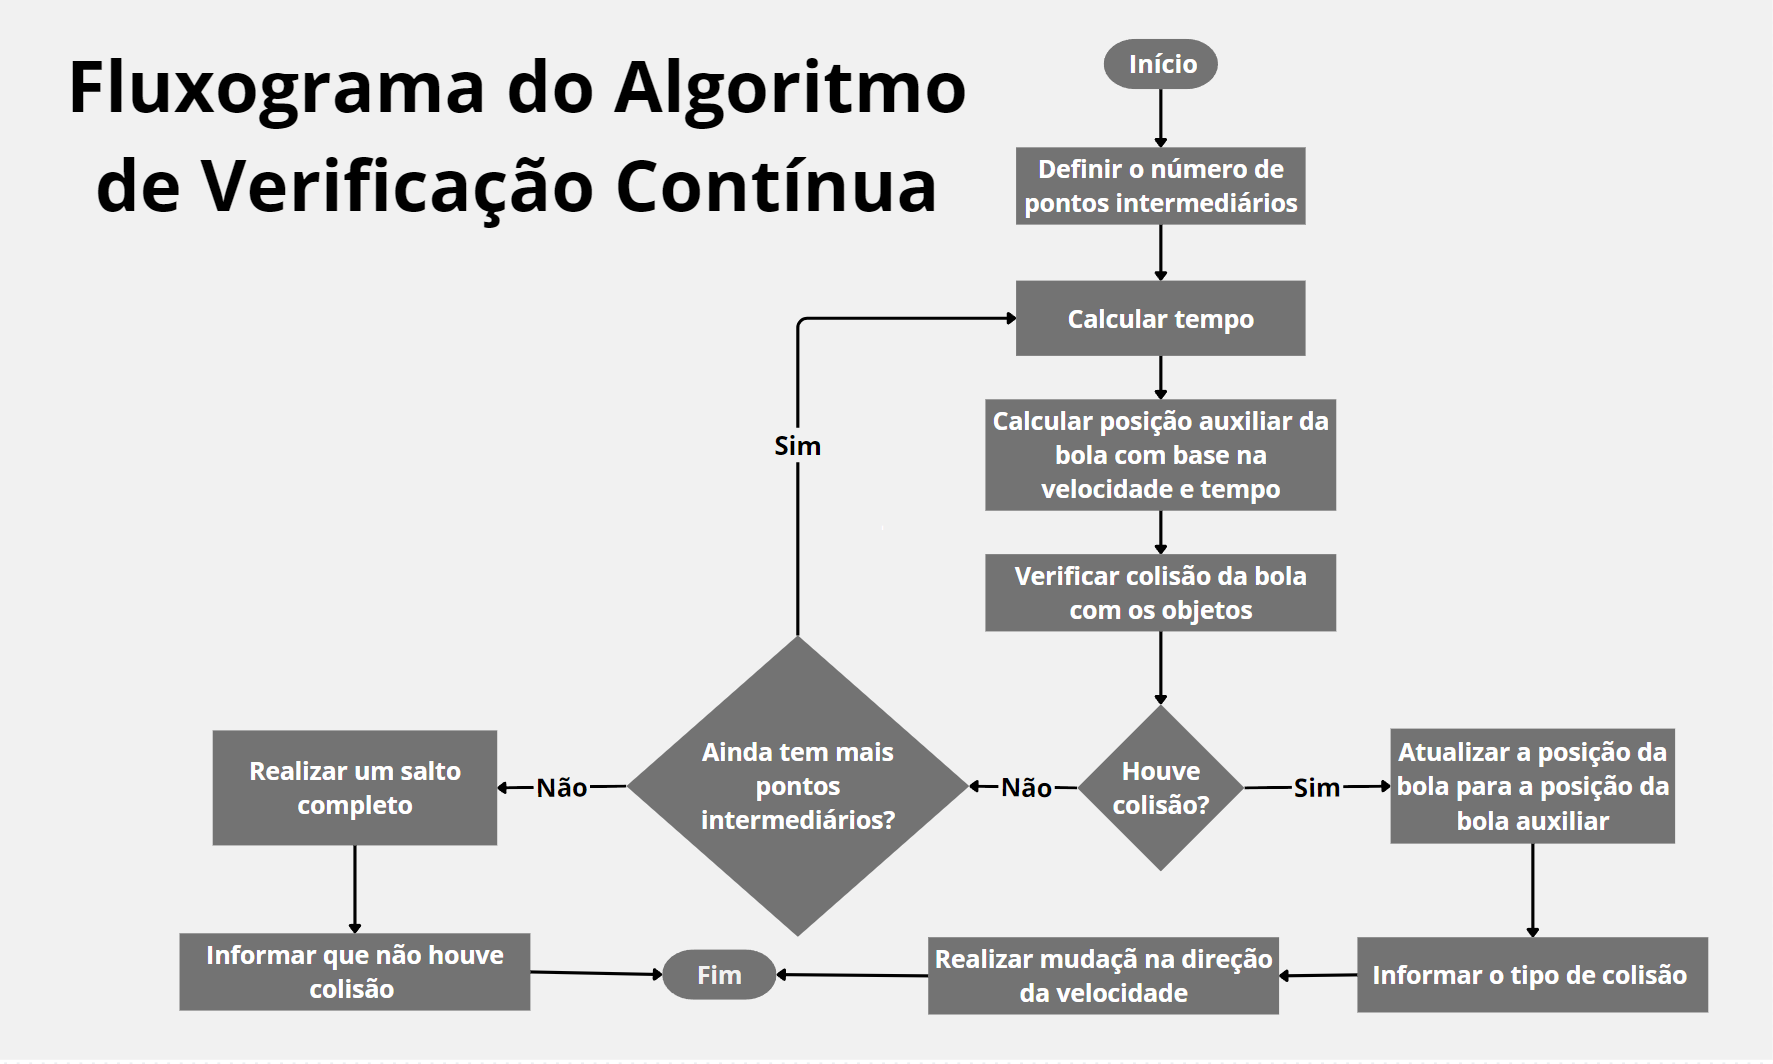
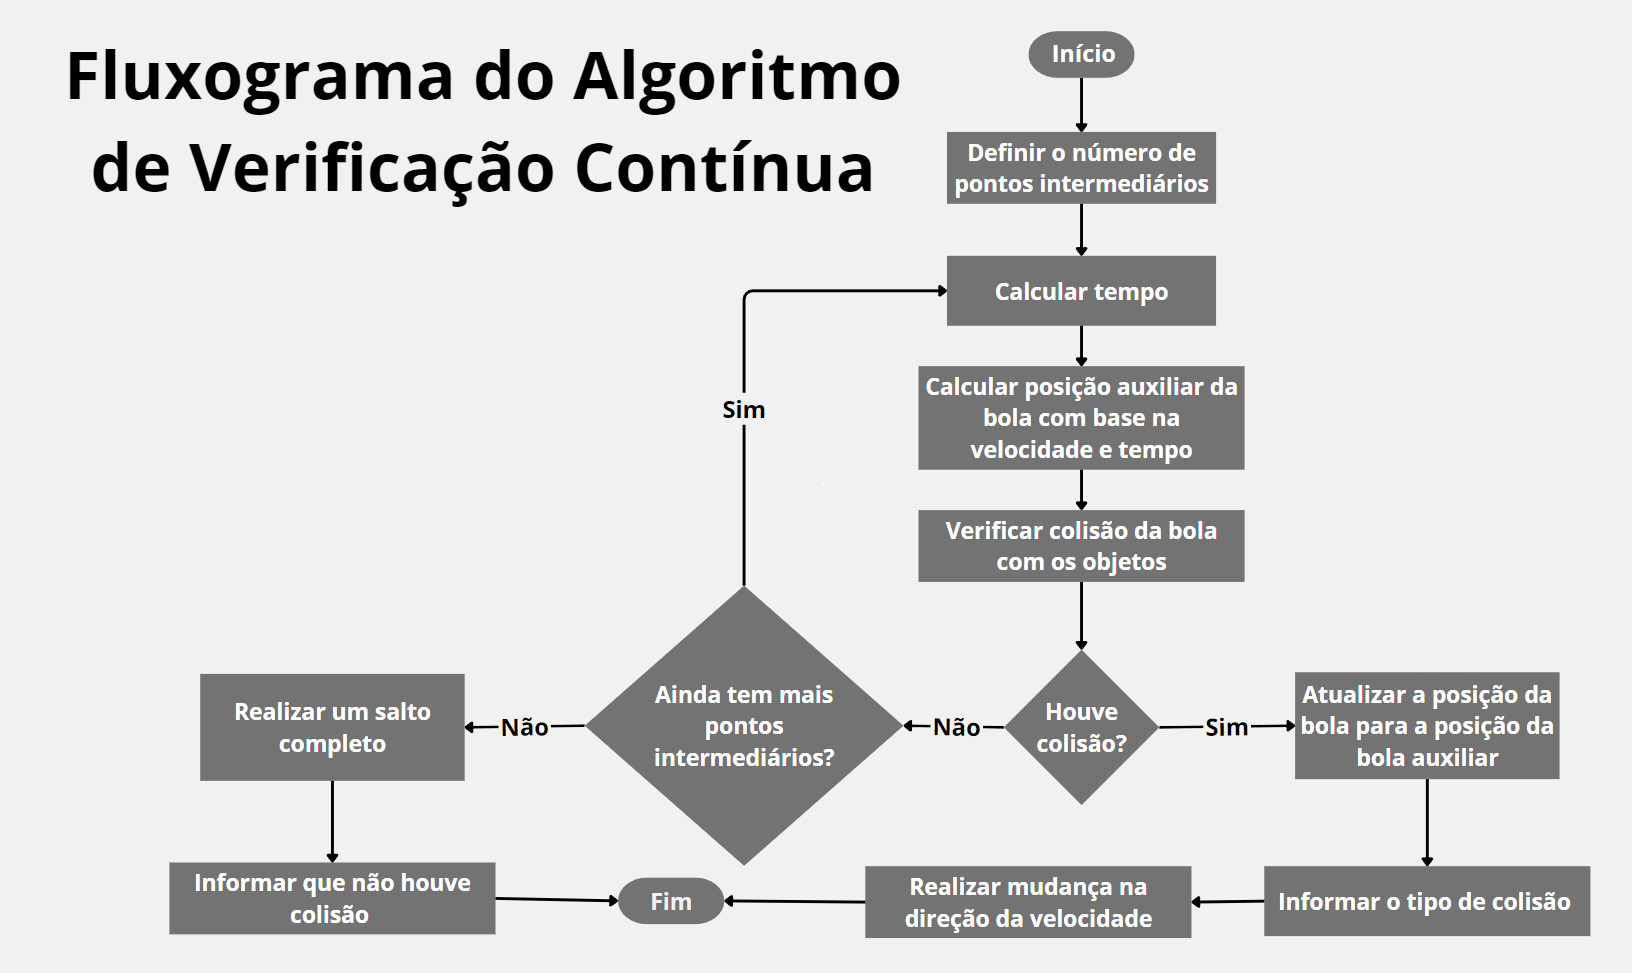
📚 docs(README): solução geral.

diff --git a/README.md b/README.md
@@ -271,7 +271,7 @@ Em seguida, é calculada a distância euclidiana entre a bola e o ponto de impac
 A imagem apresenta um fluxograma do algoritmo, proporcionando uma visão do seu funcionamento. Além disso, fornece uma representação cartesiana para uma compreensão visual mais abrangente.
 
 <p align="center">
-  <img src="Images/Fruxograma-Colisoes.png" width = "600" />
+  <img src="Images/Fruxograma-Colisoes.png" width = "900" />
 </p>
 <p align="center"><strong> Fluxograma e visão cartesiana da detecção de colisão entre retângulo e círculo</strong></p>
 
@@ -298,9 +298,9 @@ Segue uma versão simplificada para facilitar o entendimento do algoritmo: um gr
 <p align="center"><strong> Modelo discreto e contínuo de verificação de colisão</strong></p>
 
 <p align="center">
-  <img src="Images/Fluxograma-MOV-Ball.png" width = "600" />
+  <img src="Images/Fluxograma-MOV-Ball.png" width = "900" />
 </p>
-<p align="center"><strong> Modelo discreto e contínuo de verificação de colisão</strong></p>
+<p align="center"><strong> Fluxograma do algoritmo de verificação contínua de colisão</strong></p>
 
 </div>
 </div>
@@ -309,6 +309,21 @@ Segue uma versão simplificada para facilitar o entendimento do algoritmo: um gr
 <h2> Solução Geral do projeto </h2>
 <div align="justify">
 
+A solução integral deste sistema demonstra sua capacidade completa de atender a todas as demandas requisitadas. Antes de entrar no loop principal do programa, os periféricos utilizados - VGA, acelerômetro e botões - são inicializados. Além disso, os elementos do jogo são iniciados, atribuindo suas características e posições iniciais. Por fim, a MEF (Máquina de Estados Finitos) da troca de telas é iniciada na tela de menu.
+
+Dentro do loop principal, o sistema busca e exibe qual tela deve ser mostrada com base no estado atual. Após a exibição, o programa verifica se a tela atual é a do jogo. Se não for, verifica se algum botão foi pressionado para realizar a troca de cenário. Caso contrário, a execução retorna ao início do loop principal.
+
+Se o jogo estiver em execução, o sistema lê o acelerômetro para verificar a movimentação da placa. Em seguida, move os objetos do jogo - bola e barra. A movimentação da barra é baseada nos dados do acelerômetro, enquanto a bola se move conforme o algoritmo de verificação contínua.
+
+Após realizar todos os movimentos, o sistema analisa se a bola atingiu algum bloco e, se sim, remove esses blocos. Por fim, verifica se o jogo chegou ao fim. Se não, verifica se houve pressionamento de botão durante os passos anteriores e realiza a troca ou não de telas. Se o jogo terminar, os elementos do jogo são reorganizados para uma nova partida e a tela é alterada para a de vitória ou derrota. Em seguida, o loop principal é executado novamente.
+
+Para uma compreensão mais clara da explicação, apresentamos abaixo um fluxograma detalhando o algoritmo utilizado na solução geral.
+
+<p align="center">
+  <img src="Images/Fruxograma-solucao.png" width = "900" />
+</p>
+<p align="center"><strong> Fluxograma da solução geral do problema</strong></p>
+
 <div id="testes"> 
 <h2> Testes Realizados </h2>
 <div align="justify">
@@ -316,70 +331,70 @@ Segue uma versão simplificada para facilitar o entendimento do algoritmo: um gr
 * Transição da tela inicial para a partida.
 
 <p align="center">
-  <img src="Images/teste_1.gif" width = "600" />
+  <img src="Images/teste_1.gif" width = "400" />
 </p>
 <p align="center"><strong>Transição da tela inicial para a partida</strong></p>
 
 * Colisão da bola com a parte do meio inferior de um bloco, e com a parte do meio da barra, preservando sua direção.
 
 <p align="center">
-  <img src="Images/teste_2.gif" width = "600" />
+  <img src="Images/teste_2.gif" width = "400" />
 </p>
 <p align="center"><strong>Colisão da bola com o meio inferior do bloco e com o meio da barra</strong></p>
 
 * Colisão da bola com as paredes laterais e superior.
 
 <p align="center">
-  <img src="Images/teste_3.gif" width = "600" />
+  <img src="Images/teste_3.gif" width = "400" />
 </p>
 <p align="center"><strong>Colisão da bola com as paredes laterais e superior</strong></p>
 
 * Colisão da bola com as diferentes partes da barra. Quanto mais a bola se aproxima da lateral, mais rápida será sua velocidade seguinte após a colisão. Colidir com o lado esquerdo direciona a bola para a esquerda, e com o lado direito, para a direita.
 
 <p align="center">
-  <img src="Images/teste_4.gif" width = "600" />
+  <img src="Images/teste_4.gif" width = "400" />
 </p>
 <p align="center"><strong>Mudança de velocidade e direção da bola dependendo do local que ela colide com a barra</strong></p>
 
 * Colisão da bola com as laterais dos blocos.
 
 <p align="center">
-  <img src="Images/teste_5.gif" width = "600" />
+  <img src="Images/teste_5.gif" width = "400" />
 </p>
 <p align="center"><strong>Colisão da bola com as laterais dos blocos</strong></p>
 
 * Colisão simultânea com dois blocos, na parte inferior e na lateral.
 
 <p align="center">
-  <img src="Images/teste_6.gif" width = "600" />
+  <img src="Images/teste_6.gif" width = "400" />
 </p>
 <p align="center"><strong>Colisão da bola com dois blocos simultaneamente</strong></p>
 
 * Colisão da bola com a ponta do bloco.
 
 <p align="center">
-  <img src="Images/teste_7.gif" width = "600" />
+  <img src="Images/teste_7.gif" width = "400" />
 </p>
 <p align="center"><strong>Colisão da bola com a ponta do bloco</strong></p>
 
 * Aparecimento da tela de derrota após a bola ultrapassar o limite inferior do campo de jogo. Transição da tela de derrota para a tela inicial.
 
 <p align="center">
-  <img src="Images/teste_8.gif" width = "600" />
+  <img src="Images/teste_8.gif" width = "400" />
 </p>
 <p align="center"><strong>Transição de tela na perda de jogo</strong></p>
 
 * Pausando a partida e selecionando as opções de continuar e voltar para a tela inicial.
 
 <p align="center">
-  <img src="Images/teste_9.gif" width = "600" />
+  <img src="Images/teste_9.gif" width = "400" />
 </p>
 <p align="center"><strong>Opções do estado de pausa</strong></p>
 
 * Animação da tela de vitória.
 
 <p align="center">
-  <img src="Images/teste_10.gif" width = "600" />
+  <img src="Images/teste_10.gif" width = "400" />
 </p>
 <p align="center"><strong>Animação da tela de vitória</strong></p>
 
